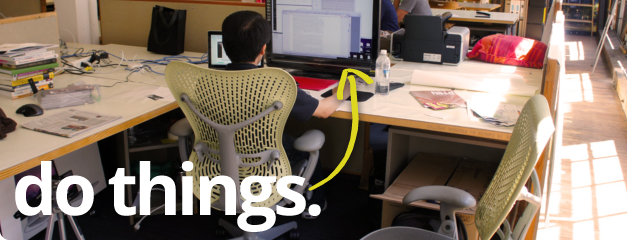
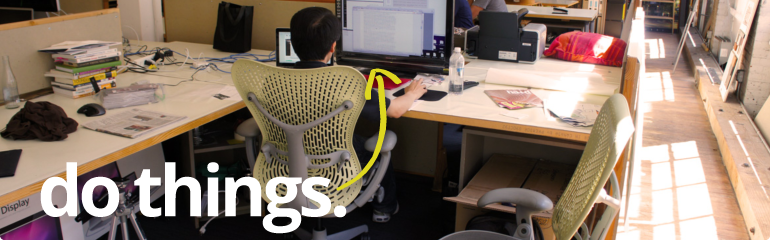
updates

diff --git a/css/slides/_slide08_schedule.css.sass b/css/slides/_slide08_schedule.css.sass
@@ -5,31 +5,32 @@
     padding: 30px 30px 30px 30px
   .schedule-heading
     +clearfix
-    width: 664px
+    width: 800px
     .schedule-date
-      font-size: 14px
+      font-size: 12px
       color: #7E7E7E
       width: 135px
-      border: 1px solid #B4B4B4
-      padding: 7px 10px
+      border: 1px solid #ddd
+      padding: 10px
       float: left
       +box-sizing(border-box)
     .schedule-title
       +linear-gradient(top, #F3F7FA, #ECF1F2)
       +box-sizing(border-box)
-      padding: 7px 10px
-      width: 530px
+      padding: 10px
+      width: 630px
       float: left
-      border: 1px solid #B4B4B4
+      border: 1px solid #DADEDF
       margin-left: -1px
       color: #2E74A9
-      font-weight: bold
+      font-weight: 500
+      font-size: 16px
   .schedule-body
     font-size: 16px
     padding: 10px
     padding-left: 144px
     line-height: 1.4
     font-weight: 100
-    margin-bottom: 10px
+    margin-bottom: 15px
     strong
       font-weight: 500

diff --git a/css/application.css.sass b/css/application.css.sass
@@ -32,6 +32,10 @@ body
   box-shadow: 0 0 20px rgba(0,0,0,0.1)
 
 
+blockquote
+  p
+    text-align: left !important
+
 .presentation
   color: #5A5A5A
   position: relative
@@ -76,10 +80,10 @@ h2.section
     padding-bottom: 30px
   .rich
     display: block
-    width: 627px
+    width: 770px
     height: 240px
     margin: auto
-    background: url("../img/landing/we_do_things.png") no-repeat
+    background: url("../img/landing/we_do_things.jpg") no-repeat
     text-indent: -99999px
 
 a.logo

diff --git a/css/slides/_slide06_signup.css.sass b/css/slides/_slide06_signup.css.sass
@@ -9,7 +9,7 @@
 
 
   #signup-box
-    +linear-gradient("top", #F4F4F4, #EAEAEA)
+    +linear-gradient("top", #F4F4F4,  it#EAEAEA)
     +border-radius(0 0 13px 13px)
 
     padding: 30px
@@ -18,8 +18,8 @@
     position: relative
     +clearfix
     .mini-logo
-      width: 246px
-      height: 65px
+      width: 250px
+      height: 94px
       background: url("../img/nreduce_logo.png") no-repeat
       margin: auto
       text-indent: -9999px

diff --git a/css/slides/_slide07_details.css.sass b/css/slides/_slide07_details.css.sass
@@ -1,10 +1,10 @@
 #details_slide
   text-align: left
   .scroll-content
-    padding-top: 30px
-    padding-bottom: 10px
-    padding-left: 30px
-    padding-right: 30px
+    padding-top: 40px
+    padding-bottom: 30px
+    padding-left: 60px
+    padding-right: 60px
   h2
     margin-bottom: 15px
     margin-top: 0px

diff --git a/css/slides/_slide09_faq.css.sass b/css/slides/_slide09_faq.css.sass
@@ -2,8 +2,8 @@
   h2
     margin-bottom: 30px
   .scroll-content
-    padding-left: 30px
-    padding-right: 30px
+    padding: 40px 60px
+
   .question
     margin-bottom: 30px
     h3
